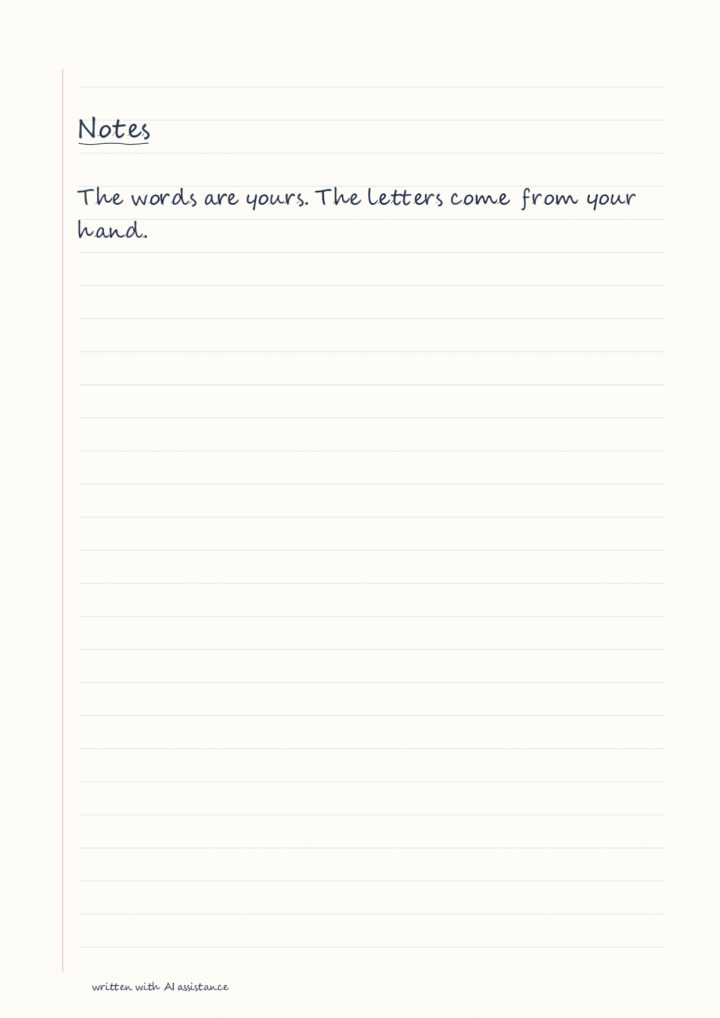
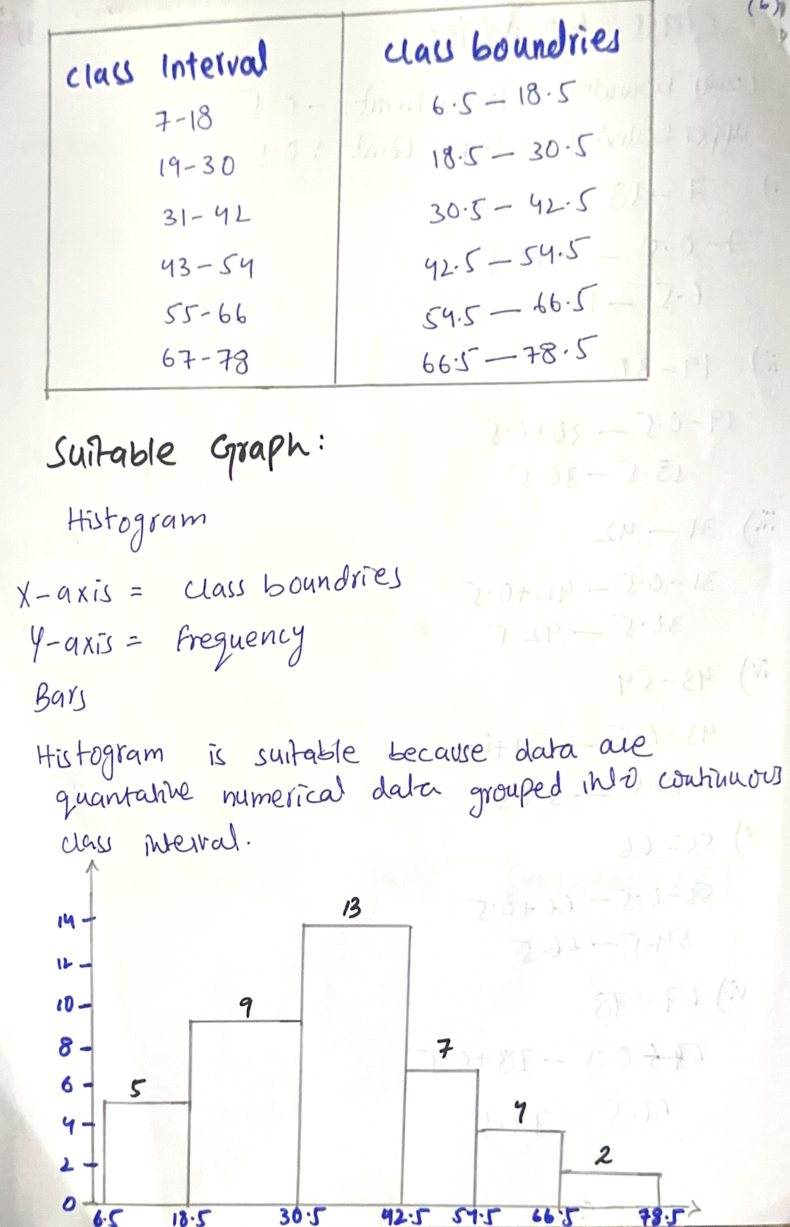
Use a real handwritten page as the public sample.
The landing image is a page from the supplied scan, with the name and id left off.

diff --git a/docs/index.html b/docs/index.html
@@ -136,8 +136,8 @@
     </section>
 
     <figure class="shot">
-      <img src="media/sample-page.jpg" width="720" height="1018" alt="A lined page written in the demo hand. The heading is Notes. The sentence says the words are yours and the letters come from the hand.">
-      <figcaption>A page from the demo hand. Your own hand replaces this once you fill a letter sheet.</figcaption>
+      <img src="media/sample-page.jpg" width="790" height="1227" alt="A handwritten page with a table of class intervals and class boundaries, a note that a histogram suits grouped numbers, and a bar chart.">
+      <figcaption>A page written by hand, used here as the sample. The app learns letters from pages like this. The photo is not kept in the saved hand.</figcaption>
     </figure>
 
     <section id="how">

diff --git a/README.md b/README.md
@@ -26,7 +26,7 @@ The live site is [mafzalkalwardev.github.io/inkcadence](https://mafzalkalwardev.
 ## See a page
 
 <p align="center">
-  <img src="docs/media/sample-page.jpg" alt="A lined page from the demo hand" width="420">
+  <img src="docs/media/sample-page.jpg" alt="A handwritten page used as the sample" width="420">
 </p>
 
 Pull requests and pushes to `main` run [CI](.github/workflows/ci.yml): one `test` job (lint, tests, Vite build). Pushes to `main` also run [Pages](.github/workflows/pages.yml), which publishes the landing site at `/` and the app at `/app/`.
